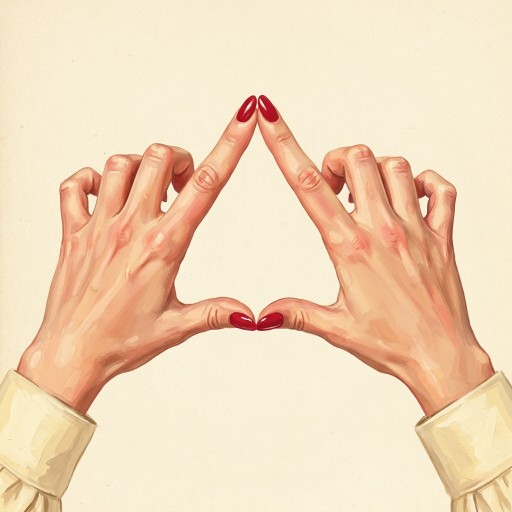
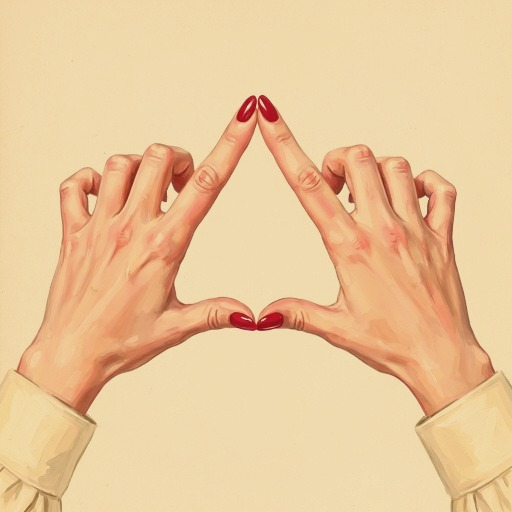
fix: closing the settings a triangle opened without the hud resumes tracking; triangle image in the shared background

diff --git a/src/inputland/cli.py b/src/inputland/cli.py
@@ -14,6 +14,8 @@ from inputland.app import run
 from inputland.config import Region, Settings
 from inputland.styles import STYLES
 
+RESUME = "INPUTLAND_RESUME"  # set across the exec when a triangle without the HUD opened the settings window
+
 
 def build_parser(config: Path) -> argparse.ArgumentParser:
     defaults = Settings()
@@ -142,6 +144,7 @@ def main() -> None:
         if args.verbose:
             logging.getLogger().setLevel(logging.DEBUG)
         if args.settings:
+            resume = os.environ.pop(RESUME, None)
             if not display:
                 raise RuntimeError(
                     f"the settings window needs a display (Wayland or X11); edit {config} or use the flags instead"
@@ -151,6 +154,8 @@ def main() -> None:
             chosen = ask(build_parser(config), vars(args))
             if chosen is not None:
                 restart(config, chosen)
+            elif resume:  # a triangle opened it: closing goes back to tracking, as beside the HUD
+                _exec(*(a for a in sys.argv[1:] if a != "--settings"))
             return
         settings = settings_from(args)
         if args.hud and not args.preview and display:
@@ -173,6 +178,7 @@ def main() -> None:
             triangle = threading.Event()  # no HUD to open the settings window beside: stop and start over in it
             run(settings, stop=triangle, on_settings=triangle.set if display else None)
             if triangle.is_set():
+                os.environ[RESUME] = "1"
                 _exec(*sys.argv[1:], "--settings")
     except KeyboardInterrupt:
         pass

diff --git a/tests/test_cli.py b/tests/test_cli.py
@@ -1,4 +1,5 @@
 import logging
+import os
 import sys
 import threading
 from types import SimpleNamespace
@@ -169,8 +170,23 @@ def test_a_triangle_beside_the_hud_opens_the_settings_window_and_start_restarts(
 def test_a_triangle_without_the_hud_starts_over_in_the_settings_window(config, window, monkeypatch):
     monkeypatch.setattr(sys, "argv", ["inputland", "--no-hud", "--beta", "12"])
     monkeypatch.setattr(cli, "run", lambda settings, stop, on_settings: (on_settings(), stop.is_set()))
+    monkeypatch.setenv(cli.RESUME, "")  # so the value main sets is undone after the test
     cli.main()
     assert window.execs == [[sys.executable, "-P", "-m", "inputland", "--no-hud", "--beta", "12", "--settings"]]
+    assert os.environ[cli.RESUME] == "1"
+
+
+@pytest.mark.parametrize(("answer", "argv"), [(None, ["--no-hud", "--beta", "12"]), ({"beta": 12.0}, [])])
+def test_closing_the_window_a_triangle_opened_without_the_hud_goes_back_to_tracking(
+    config, window, monkeypatch, answer, argv,
+):
+    monkeypatch.setattr(sys, "argv", ["inputland", "--no-hud", "--beta", "12", "--settings"])
+    monkeypatch.setenv(cli.RESUME, "1")
+    if answer:
+        window.answer = vars(cli.build_parser(config.path).parse_args([])) | answer
+    cli.main()
+    assert window.execs == [[sys.executable, "-P", "-m", "inputland", *argv]]  # Start: the saved config instead
+    assert cli.RESUME not in os.environ  # not passed on to that run
 
 
 def test_a_triangle_on_the_tty_opens_nothing(config, monkeypatch):

diff --git a/src/inputland/hud.py b/src/inputland/hud.py
@@ -203,8 +203,9 @@ class Hud:
     def run(self, worker: Worker) -> None:
         """Show the HUD and run `worker(publish, stop)` in a background thread.
 
-        Returns when the worker finishes, on Ctrl+C or when inputland is launched again (GTK hands a second launch to
-        the running instance, so the launcher or a keybinding toggles it); re-raises the worker's error.
+        Returns when the worker finishes, on Ctrl+C, on Start in the settings window or when inputland is launched again
+        (GTK hands a second launch to the running instance, so the launcher or a keybinding toggles it); re-raises the
+        worker's error.
         """
         stop = threading.Event()
         errors: list[BaseException] = []

diff --git a/src/inputland/app.py b/src/inputland/app.py
@@ -105,7 +105,8 @@ def describe(side: str, status: Status | None) -> tuple[str, str]:
 
 
 def banner(status: Status | None) -> tuple[str, str] | None:
-    """What the HUD shows once for both hands (starting, none in view, paused, quitting), and its CSS state."""
+    """What the HUD shows once for both hands (starting, none in view, paused, quitting, opening the settings), and its
+    CSS state."""
     shown = describe(SIDES[0], status)
     return shown if shown[0] in BANNERS and describe(SIDES[1], status) == shown else None
 

diff --git a/AGENTS.md b/AGENTS.md
@@ -43,10 +43,10 @@ Where new code goes: new gestures in `gestures.py`, new outputs (clicks, keys, `
 - **`--preview` disables the HUD**: OpenCV's window segfaults next to GTK. It also forces `QT_QPA_PLATFORM=xcb`: OpenCV's wheel bundles Qt with only that plugin, and a `wayland` value aborts the process.
 - **No layer-shell, no HUD window**: without gtk4-layer-shell, or on a compositor without it (GNOME, X11), `Hud` holds the app with no window (so a second launch still stops it) and warns once: a plain window would take the focus, get tiled and pass every click through, so nothing could move or close it. The settings window does not need layer-shell.
 - **Model URLs are pinned** (`float16/1`), not `latest`, so the gesture set cannot change underneath. Downloads must match `MODEL_SHA256` / `FACE_MODEL_SHA256` (a captive-portal page must not get cached), then go to a `.part` file and rename atomically; bump both together. The cached file is re-hashed on every start, so a bump reaches existing installs.
-- **HUD clicks pass through** via an empty input region; segment width is fixed (`NAME_CHARS`) so the overlay never resizes, and the owner underline is an inset `box-shadow`, not a border, for the same reason. A hold's progress is a `fill-N` class per tenth (a `background-image` gradient), on segments whose text ends in `...`. What concerns both hands (`banner`: starting, none in view, paused, quitting) shows once, in a `Gtk.Stack` page beside the segments, so it is as wide as they are; segments get the `segment` class when created, since its padding sets that width.
+- **HUD clicks pass through** via an empty input region; segment width is fixed (`NAME_CHARS`) so the overlay never resizes, and the owner underline is an inset `box-shadow`, not a border, for the same reason. A hold's progress is a `fill-N` class per tenth (a `background-image` gradient), on segments whose text ends in `...`. What concerns both hands (`banner`: starting, none in view, paused, quitting, opening the settings) shows once, in a `Gtk.Stack` page beside the segments, so it is as wide as they are; segments get the `segment` class when created, since its padding sets that width.
 - **A second launch with the HUD stops the running one**: `Hud` is a unique `Gtk.Application`, so GTK hands the launch to the running instance over D-Bus and its second `activate` quits. That makes the launcher entry and a keybinding a toggle; without a session bus GTK runs it non-unique.
 - **The settings window** (`settings.py`, launcher entry, `--settings`) is built from the parser; Start saves only non-defaults (never `preview`) and `exec`s `python -m inputland`, which frees the unique-app name and keeps OpenCV out of a GTK process; flush output before `exec`. Each flag needs a `FIELDS` entry (name, hint, and for a slider the words at its ends and a range inside what `Settings` accepts); the window draws in the theme colors (`accent`, not the HUD's `active`) with its own CSS, since GTK 4's built-in theme has no named colors to override.
-- **A held triangle opens the settings window beside the HUD** (`run`'s `on_settings` → `Hud.open` → `settings.show`), so tracking keeps running and the hand can use it; its Start quits the HUD and `cli.restart` saves and `exec`s, closing it carries on. Without the HUD `run` stops and `cli` `exec`s the same flags plus `--settings`; on the TTY it does nothing. `is_triangle` takes `pinch_ratio` as "touching" and needs the wrists apart, so one hand MediaPipe reports twice is not a triangle.
+- **A held triangle opens the settings window beside the HUD** (`run`'s `on_settings` → `Hud.open` → `settings.show`), so tracking keeps running and the hand can use it; its Start quits the HUD and `cli.restart` saves and `exec`s, closing it carries on. Without the HUD `run` stops and `cli` `exec`s the same flags plus `--settings`, with `INPUTLAND_RESUME` set so closing the window `exec`s those flags back; on the TTY it does nothing. `is_triangle` takes `pinch_ratio` as "touching" and needs the wrists apart, so one hand MediaPipe reports twice is not a triangle.
 - **HUD styles other than Default are drawn with Cairo** (`styles.py`, no GTK) from `describe` / `banner`, colors read from the HUD's `@define-color`s through `hud.theme_colors`; each has a fixed size (`styles.SIZES`).
 - **HUD highlight color** is the theme's `active_border_color`, else `accent` (every Omarchy theme has `accent`, few the former), with black or white text picked by luminance: the theme's own background on its accent drops under 4.5:1 on several themes. Omarchy switches theme by swapping a new directory in for `current/theme`, so `watch_theme` watches `current`, not the files. Without Omarchy it uses the GTK theme's `@theme_*` colors (not libadwaita's `@accent_bg_color`, unset in plain GTK). The owner underline uses the text color instead: some accents fall under 3:1 on the HUD background.
 - **`HandTracker` runs on the GPU delegate**, falling back to the CPU: on a throttled CPU (battery, power-saver) inference takes 30–60 ms, over the 33 ms frame budget, and the cursor stutters.

diff --git a/README.md b/README.md
@@ -27,7 +27,7 @@ Point with either index finger and the cursor follows the base of that finger, s
 | <img src="docs/gestures/palm-pinch.jpg" width="180" alt="Open palm and pinch"> | **One palm open, the other hand pinching**, like grabbing a slider: move the pinch up / down for volume, right / left for brightness, about one step per centimeter |
 | <img src="docs/gestures/fist.jpg" width="180" alt="Fist"> | **Fist** with either hand: pause. The hands are ignored, so you can gesture freely, until you open a palm. **Both fists** held about 2 seconds: quit |
 | <img src="docs/gestures/forehead.jpg" width="180" alt="Index on forehead"> | **Index fingertip on your forehead** for half a second: steer the cursor with your head (nose tip, starting at the screen center); again to go back to your hand |
-| <img src="docs/gestures/triangle.jpg" width="180" alt="Triangle"> | **Triangle** with both hands, thumb tips together and index tips together, other fingers curled, held about a second: open the settings window beside the HUD; your hand keeps the cursor, so you can use it. Start applies the values and restarts, closing it carries on. Without the HUD (`--preview`, `--no-hud`) it stops and opens the settings window instead |
+| <img src="docs/gestures/triangle.jpg" width="180" alt="Triangle"> | **Triangle** with both hands, thumb tips together and index tips together, other fingers curled, held about a second: open the settings window beside the HUD; your hand keeps the cursor, so you can use it. Start applies the values and restarts, closing it carries on. Without the HUD (`--preview`, `--no-hud`) it stops and opens the settings window instead; closing it goes back to tracking |
 
 Right click, close, copy, paste, scroll and swipe count only from the hand that last pointed, and only within about 3 seconds of it pointing or gesturing, so a stray pose from the other hand, or a thumbs up on a video call, does nothing.
 Scroll and zoom: whichever starts first keeps the gesture until you close either hand. Volume and brightness: whichever direction steps first keeps it until you let go of the pinch. They tap the media keys, so your desktop's own bindings make the change and show it (Omarchy shows its OSD). A pinch that was already dragging stays a drag.
